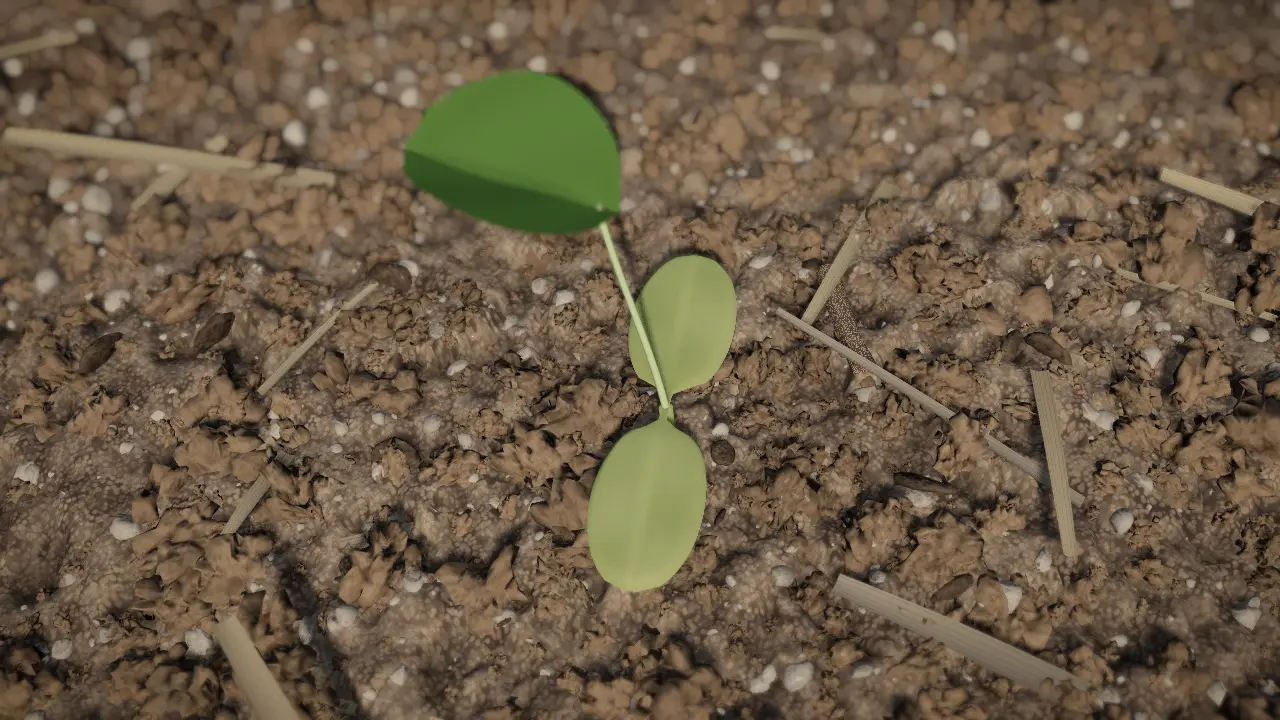
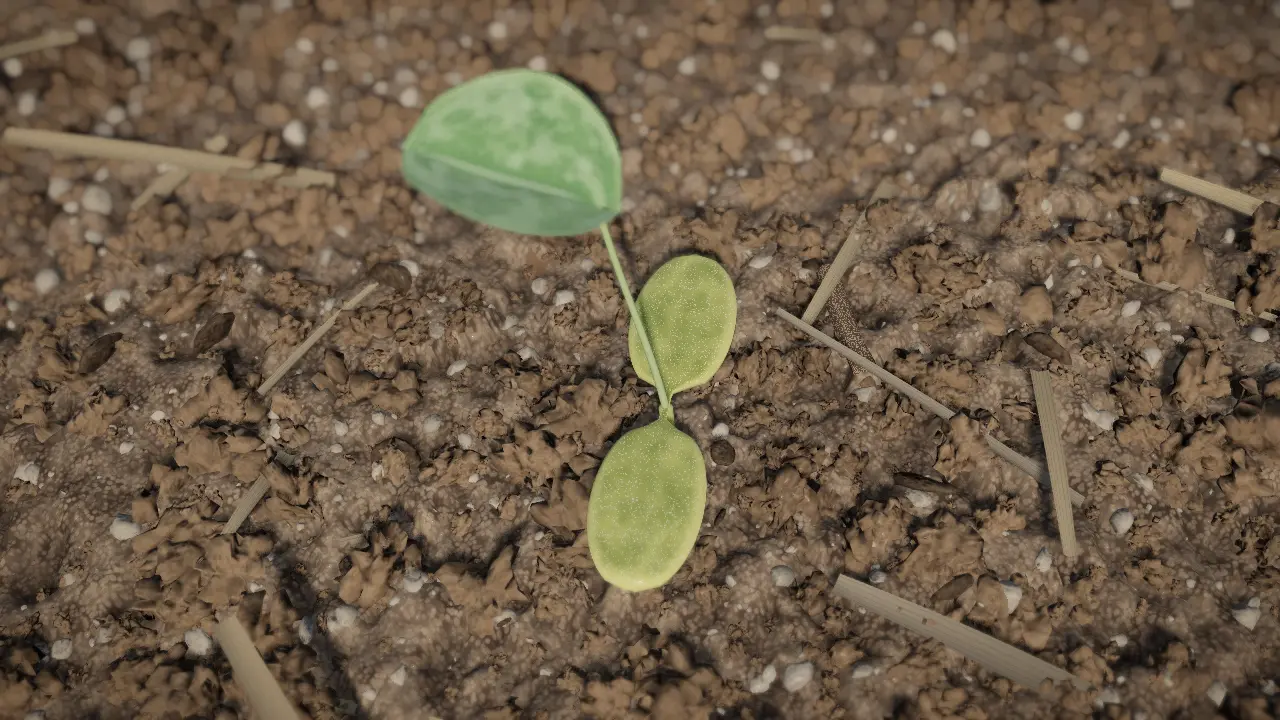
UNDERSOIL: multi-colour leaf surfaces from photo close-ups (mottling, yellow rim, frosted sparkle, soil specks, vein network)
Claude-Session: https://claude.ai/code/session_01HXHWaeyj425ipGMnohy3Vo

diff --git a/undersoil/src/game/surface.ts b/undersoil/src/game/surface.ts
@@ -1,7 +1,7 @@
 // 地上の変化：シロツメクサの発芽を、実写の早回しのように、その場で描いて見せる。単位は mm。
 // 地下の暗さとの対比のため、ここは朝の斜めの光で、明るく色彩豊かに。
 import * as THREE from 'three/webgpu';
-import { attribute, float, vec2, vec3, mix, uniform, saturate, smoothstep, normalWorld, positionWorld, positionLocal, cameraPosition, dot, pow, texture, uv, abs, oneMinus, fract, mx_noise_float } from 'three/tsl';
+import { attribute, float, vec2, vec3, mix, uniform, saturate, smoothstep, normalWorld, positionWorld, positionLocal, cameraPosition, dot, pow, texture, uv, abs, oneMinus, fract, step, mx_noise_float, mx_worley_noise_float } from 'three/tsl';
 import { loadGLB, loadTexture } from '../core/assets';
 import { makeRng } from './rng';
 import { makeSoilMaterial } from './soilMaterial';
@@ -77,44 +77,64 @@ export async function buildSurface(renderer: THREE.WebGPURenderer, base: string,
     const vc = attribute('color', 'vec4'); const isCot = vc.r, isRoot = vc.g, topSide = vc.b, alongCot = vc.a;
     const pm = new THREE.MeshPhysicalNodeMaterial();
     const u2 = uv();
-    // 表面の細かい粒状感（表皮の細胞の凹凸が、光を受けて細かくきらめく）。写真で確認した特徴
-    // 表皮の細胞のきらめき：形の座標（mm）からの3次元ノイズ。UV の伸びに左右されない
-    const pl = positionLocal;
-    const stipple = saturate(mx_noise_float(pl.mul(9.0)).mul(0.45).add(mx_noise_float(pl.mul(22.0)).mul(0.45)).add(0.5));
-    // 色：土の中では淡い黄白色。地上で光に当たると、子葉から先に緑になる。写真の目測 RGB(120,190,70) 前後を線形に直した値
+    // 子葉の色は一色ではない（写真を拡大して確かめた。#919C41 日陰、#CACD89 日なた、縁 #D1D187）：
+    //  ① 大きなまだら：黄緑と緑が数百 µm の大きさで混じる  ② 縁：薄く黄色みを帯びて透ける  ③ 付け根と中央の溝はやや濃い
+    //  ④ 表皮の細胞の凹凸：銀白色の細かい光の点が、表面のほぼ半分を覆う（霜をふいたような質感） ⑤ 小さな土の粒が少し付いている
+    // 模様の座標は、子葉の実際の寸法（幅 約2.25 mm × 長さ 約3.8 mm）に合わせた UV（mm）。圧縮したモデルの座標は mm ではないので使わない
+    const pl = vec3(u2.x.mul(2.25), u2.y.mul(3.8), topSide.mul(5.0));
+    const blot = saturate(mx_noise_float(pl.mul(1.6)).mul(0.8).add(mx_noise_float(pl.mul(4.3)).mul(0.4)).add(0.5));
     const pale = vec3(0.62, 0.58, 0.16), rootCol = vec3(0.88, 0.86, 0.78);
-    // 縁はわずかに黄色みを帯び、厚みのせいで少し暗く見える（写真 8615）
-    const edge = smoothstep(0.32, 0.5, abs(u2.x.sub(0.5))).add(smoothstep(0.85, 1.0, alongCot)).min(1.0);
-    // 写真から測った色（sRGB #838945・#909E3C・#9BA566）を線形に直した値。緑より黄色みの強い、くすんだオリーブ色
-    const cotTop = mix(mix(vec3(0.17, 0.20, 0.06), vec3(0.27, 0.30, 0.12), stipple), vec3(0.30, 0.31, 0.12), edge.mul(0.4));
-    const cotGreen = mix(vec3(0.30, 0.36, 0.12), cotTop, topSide);            // 裏は淡い
-    const midline = oneMinus(smoothstep(0.0, 0.10, abs(u2.x.sub(0.5)))).mul(topSide).mul(smoothstep(0.15, 0.4, alongCot));
-    // 胚軸：淡い緑。地ぎわはわずかに赤みを帯びる個体がある（写真1点で確認。弱く入れる）
-    const stemGreen = mix(vec3(0.15, 0.12, 0.03), vec3(0.20, 0.25, 0.07), smoothstep(0.3, 0.75, vc.b));   // 写真の茎 #6B6429 前後
-    const green = mix(stemGreen, cotGreen.mul(mix(float(1), float(1.12), midline)), isCot);
-    const greening = uGreen.mul(mix(float(0.9), float(1), isCot)).mul(aboveGround);
+    const edgeU = smoothstep(0.36, 0.5, abs(u2.x.sub(0.5))), edgeTip = smoothstep(0.9, 1.0, alongCot);
+    const edge = edgeU.add(edgeTip).min(1.0);
+    const base = smoothstep(0.35, 0.1, alongCot);                                           // 付け根
+    const midline = oneMinus(smoothstep(0.0, 0.08, abs(u2.x.sub(0.5)))).mul(topSide).mul(smoothstep(0.15, 0.4, alongCot));
+    let cotTop = mix(vec3(0.16, 0.20, 0.035), vec3(0.30, 0.33, 0.08), blot);                // ① まだら（日陰色〜黄緑）
+    cotTop = mix(cotTop, vec3(0.50, 0.50, 0.16), edge.mul(0.75));                             // ② 黄色みの縁
+    cotTop = cotTop.mul(mix(float(1.0), float(0.78), base.mul(0.6).add(midline.mul(0.35))));   // ③ 付け根と溝
+    // ④ 光の点：0.03〜0.06 mm 間隔の細かいセル。点そのものは銀白色で、鋭く光る
+    const cellA = mx_worley_noise_float(pl.mul(17.0)), cellB = mx_worley_noise_float(pl.mul(29.0).add(vec3(3.1, 1.3, 2.2)));
+    const dots = smoothstep(0.32, 0.12, cellA).add(smoothstep(0.26, 0.1, cellB).mul(0.7)).min(1.0).mul(topSide.mul(0.7).add(0.3));
+    cotTop = mix(cotTop, vec3(0.66, 0.68, 0.52), dots.mul(0.62));
+    // ⑤ 付いた土の粒：まばらな茶色の小さな点
+    const speck = smoothstep(0.06, 0.02, mx_worley_noise_float(pl.mul(6.0).add(vec3(7.0, 2.0, 5.0)))).mul(step(0.6, saturate(mx_noise_float(pl.mul(2.0)).add(0.5))));
+    cotTop = mix(cotTop, vec3(0.16, 0.10, 0.06), speck.mul(0.85));
+    const cotGreen = mix(mix(vec3(0.28, 0.33, 0.11), vec3(0.36, 0.38, 0.15), blot), cotTop, topSide);   // 裏は淡く、つやが少ない
+    // 胚軸：淡い緑で半透明。地ぎわはわずかに赤みを帯び、上へ行くほど緑
+    const stemGreen = mix(vec3(0.18, 0.12, 0.05), vec3(0.24, 0.30, 0.09), smoothstep(0.3, 0.8, vc.b)).mul(mix(float(0.9), float(1.1), saturate(mx_noise_float(vec3(u2.x.mul(1.2), u2.y.mul(4.0), float(0)).mul(6.0)).add(0.5))));
+    const green = mix(stemGreen, cotGreen, isCot);
+    // 緑になる順番：光に当たった所から。縁と先が先に緑になり、付け根はしばらく黄色が残る
+    const greening = saturate(uGreen.mul(1.3).sub(base.mul(0.3)).sub(oneMinus(isCot).mul(0.15))).mul(aboveGround);
     const col = mix(mix(pale, green, greening), rootCol, isRoot);
     pm.colorNode = col;
-    const glint = smoothstep(0.72, 0.9, mx_noise_float(positionLocal.mul(11.0)).add(0.5));
-    pm.roughnessNode = mix(float(0.5), mix(float(0.86), float(0.08), glint), isCot);   // 鈍いつや＋細かいきらめき
+    // 粗さ：土台はつやなし。光の点だけ鋭く光る
+    pm.roughnessNode = mix(float(0.5), mix(float(0.88), float(0.12), dots.mul(topSide)), isCot);
     pm.metalnessNode = float(0);
-    pm.clearcoatNode = isCot.mul(0.06); pm.clearcoatRoughnessNode = float(0.4);
-    pm.sheen = 0.4; pm.sheenRoughness = 0.5; pm.sheenColor = new THREE.Color(0.55, 0.7, 0.3);
-    // 透け：子葉は厚いので、逆光では縁だけが明るい黄緑に光る。胚軸は細いので全体が透ける
-    const rimThin = pow(oneMinus(saturate(dot(normalWorld, viewDir))), 2.0);
-    pm.emissiveNode = col.mul(vec3(1.1, 1.1, 0.5)).mul(back).mul(mix(float(0.25), float(0.18), isCot)).mul(aboveGround).mul(oneMinus(isRoot));
+    pm.clearcoatNode = dots.mul(isCot).mul(0.35); pm.clearcoatRoughnessNode = float(0.15);
+    pm.sheen = 0.3; pm.sheenRoughness = 0.6; pm.sheenColor = new THREE.Color(0.6, 0.65, 0.45);
+    // 透け：縁と胚軸は薄いので、光が抜けて明るむ
+    pm.emissiveNode = col.mul(vec3(1.1, 1.1, 0.5)).mul(back.mul(0.6).add(0.12)).mul(mix(float(0.3), edge.mul(0.6), isCot)).mul(aboveGround).mul(oneMinus(isRoot));
     plant.material = pm; plant.castShadow = true; plant.receiveShadow = true; plant.frustumCulled = false;
   }
   {
     // 最初の本葉：子葉より暗く、つやのない青みの緑（写真の目測 RGB(90,150,80)）。薄いので、逆光で葉脈が浮かぶ
     const vc = attribute('color', 'vec4'); const isBlade = vc.r, fromMid = vc.g, along = vc.b;
     const lm = new THREE.MeshPhysicalNodeMaterial({ side: THREE.DoubleSide });
-    const veins = oneMinus(smoothstep(0.0, 0.05, abs(fract(along.mul(7.0).sub(fromMid.mul(2.2))).sub(0.5)))).mul(smoothstep(0.06, 0.2, fromMid)).mul(0.5);
-    const mid = oneMinus(smoothstep(0.0, 0.06, fromMid));
-    const bladeCol = mix(vec3(0.07, 0.14, 0.025), vec3(0.09, 0.17, 0.035), mid.mul(0.5));
-    const colL = mix(vec3(0.42, 0.56, 0.26), bladeCol, isBlade);
-    lm.colorNode = colL; lm.roughnessNode = mix(float(0.5), float(0.78), isBlade); lm.metalnessNode = float(0);
-    lm.emissiveNode = colL.mul(vec3(1.2, 1.35, 0.5)).mul(back.mul(0.5).add(facing.mul(0.0)));
+    // 本葉も一色ではない（写真 #88BA7E・#7FB375 前後）：青みがかった灰緑の上に、白っぽい細い葉脈の網目と、中央の葉脈。
+    // 表面は細かい毛のような、ビロードに近い鈍い光沢。縁はわずかに明るい
+    const lu = uv(); const lp = vec3(lu.x.mul(4.3), lu.y.mul(3.5), float(0));          // 本葉の実際の寸法（mm）
+    const net = mx_worley_noise_float(lp.mul(2.1)), net2 = mx_worley_noise_float(lp.mul(5.5).add(vec3(1.7, 0.3, 2.9)));
+    const veinNet = smoothstep(0.45, 0.8, net).mul(0.75).add(smoothstep(0.55, 0.85, net2).mul(0.4)).mul(smoothstep(0.08, 0.2, fromMid));
+    const mid = oneMinus(smoothstep(0.0, 0.05, fromMid)).mul(smoothstep(0.02, 0.2, along));
+    const blotL = saturate(mx_noise_float(lp.mul(1.2)).mul(0.9).add(0.5));
+    let bladeCol = mix(vec3(0.09, 0.20, 0.07), vec3(0.14, 0.28, 0.10), blotL);                 // 灰緑のまだら
+    bladeCol = mix(bladeCol, vec3(0.34, 0.48, 0.30), veinNet.mul(0.55).add(mid.mul(0.6)).min(1.0));  // 白っぽい葉脈
+    bladeCol = mix(bladeCol, vec3(0.30, 0.42, 0.20), smoothstep(0.85, 1.0, fromMid).mul(0.5));    // 縁
+    const fine = saturate(mx_noise_float(lp.mul(40.0)).add(0.5));
+    bladeCol = bladeCol.mul(mix(float(0.92), float(1.06), fine));
+    const colL = mix(vec3(0.30, 0.42, 0.18), bladeCol, isBlade);
+    lm.colorNode = colL; lm.roughnessNode = mix(float(0.5), float(0.72), isBlade); lm.metalnessNode = float(0);
+    lm.sheen = 0.25; lm.sheenRoughness = 0.5; lm.sheenColor = new THREE.Color(0.7, 0.8, 0.7);
+    lm.emissiveNode = colL.mul(vec3(1.2, 1.35, 0.6)).mul(back.mul(0.45)).mul(oneMinus(veinNet.mul(0.5)));
     leaf.material = lm; leaf.castShadow = true; leaf.receiveShadow = true; leaf.frustumCulled = false;
   }
   const holder = new THREE.Group(); holder.position.y = height(0, 0) - SEED_DEPTH; holder.rotation.y = 0.6; holder.add(gltf.scene); scene.add(holder);

diff --git a/undersoil/Docs/REFERENCE/PLANT_PROCESS.md b/undersoil/Docs/REFERENCE/PLANT_PROCESS.md
@@ -26,3 +26,10 @@
 ## これから作る植物（作る前に、この手順を最初から通す）
 草が茂る場面のシロツメクサ（3枚葉、ほふく茎、白い V 字の模様）、シロツメクサの花、スミレ、カントウタンポポ、レンゲソウ、コナラの若木、ヤマザクラ（樹皮、葉、つぼみ、花）。
 花は、花びら・おしべ・めしべの数と形、がく、開く順番を、写真で確かめてから作る。
+
+## 葉の色は一色にしない（2026-11-22、持ち主の指摘「葉が単色なので違和感がある。土のように色が混じっていない」）
+写真を拡大して確かめたこと（シロツメクサ）：
+- 子葉：濃い緑の上に、銀白色の細かい光の点（表皮の細胞の凹凸）が表面のほぼ半分を覆う。黄緑と緑の大きなまだら。縁は黄色みを帯びて透ける。付け根と中央の溝はやや濃い。小さな土の粒が付いている。
+  色：日陰 #919C41、日なた #CACD89、縁 #D1D187。
+- 本葉：青みがかった灰緑（#88BA7E・#7FB375）の上に、白っぽい細い葉脈の網目。ビロードに近い鈍い光沢。
+作り方：模様は、葉の実際の寸法（mm）に合わせた UV の座標から作る。**圧縮したモデル（meshopt）の positionLocal は mm ではない**ので、模様の基準に使わない（使うと水玉模様になる）。
